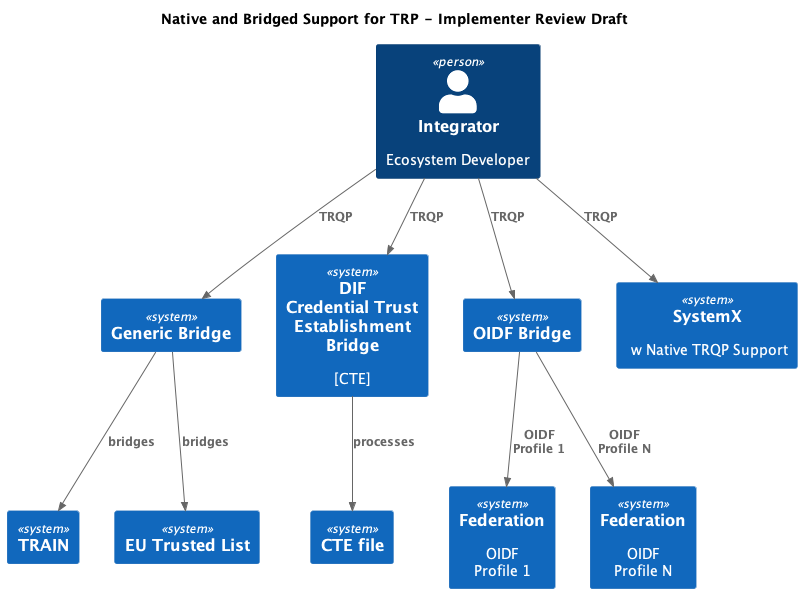
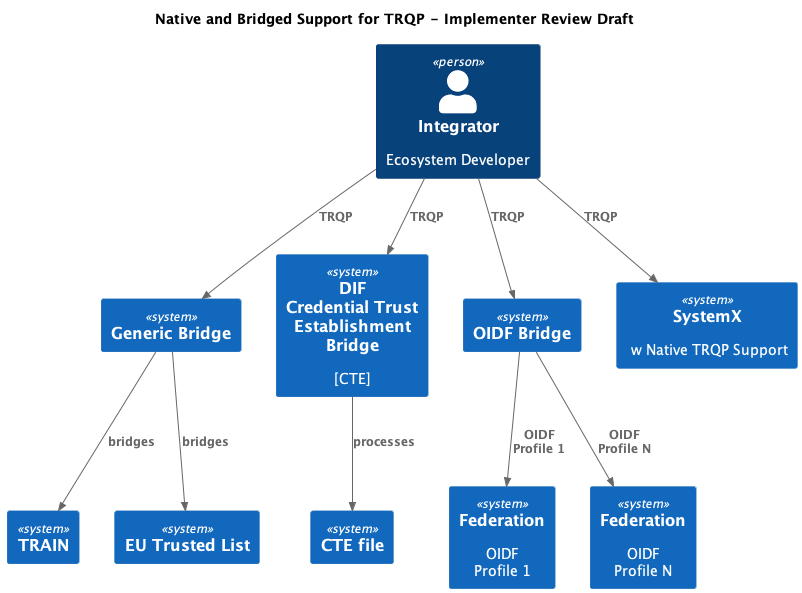
TRP->TRQP; fix .yaml links

Changed region(s): [[0.187, 0.0, 0.7793, 0.0607]]

diff --git a/spec/requirements.md b/spec/requirements.md
@@ -112,56 +112,56 @@ Trust Over IP hosts a [Service Profile]() with the following pointer:
 By implementing service profiles, it enables easier interoperability and
 discovery of service capabilities for the trust registry being implemented.
 
-### Trust Registry Protocol [TRP-*]
+### Trust Registry Protocol [TRQP-*]
 
 The authoritative technical specifications for the API calls in the ToIP Trust Registry Protocol V1 are specified in Appendix A (OpenAPI YAML file). This section contains a textual description of the **requirements**.
 
 **Trust registries** implementing this protocol:
 
-* [TRP-1] MUST maintain the service implementing this protocol at the HTTPS URI specified in the _[Trust Registry Service Property](#trust-registry-service-property)_ section.
-* [TRP-2] The system SHOULD support queries that are at a point in time in the past. 
-  * [TRP-2-1] The parameter for the point in time must be named `queryTime`.
-  * [TRP-2-2] The datetime value provided MUST be formatted per [[spec-norm:RFC3339]] using the UTC (i.e. Z for Zulu) zero offset (e.g. "2018-03-20T09:12:28Z". 
-  * [TRP-2-3] If the system does not support non-current data, and the the `queryTime` parameter is present, the system MUST NOT return entity data and must se http error code 405 (Method not allowed).
+* [TRQP-1] MUST maintain the service implementing this protocol at the HTTPS URI specified in the _[Trust Registry Service Property](#trust-registry-service-property)_ section.
+* [TRQP-2] The system SHOULD support queries that are at a point in time in the past. 
+  * [TRQP-2-1] The parameter for the point in time must be named `queryTime`.
+  * [TRQP-2-2] The datetime value provided MUST be formatted per [[spec-norm:RFC3339]] using the UTC (i.e. Z for Zulu) zero offset (e.g. "2018-03-20T09:12:28Z". 
+  * [TRQP-2-3] If the system does not support non-current data, and the the `queryTime` parameter is present, the system MUST NOT return entity data and must se http error code 405 (Method not allowed).
   
-* [TRP-3] MUST return responses to queries for the **status value** of a **registry entry** that satisfies one or more of the following sets of query parameters:
+* [TRQP-3] MUST return responses to queries for the **status value** of a **registry entry** that satisfies one or more of the following sets of query parameters:
 
-    - [TRP-3-1] **Entity Authorization**: Given the `entityDID`, and `authorization` return the status of that registered entity, MUST return exactly one of the following **status values** for a **registry entry** satisfying the query parameters:
+    - [TRQP-3-1] **Entity Authorization**: Given the `entityDID`, and `authorization` return the status of that registered entity, MUST return exactly one of the following **status values** for a **registry entry** satisfying the query parameters:
         - `Not Found` + http code 404 - entry not found.
         - `Current` + http code 200 - authorization for the registered entity is current as of the time of query, or as of the time requested.
         - `Expired` + http code 200 - authorization has expired (e.g. not renewed after the previous valid registration period)
         - `Terminated` + http code 200 - authorization was terminated (e.g. voluntary termination by the **registered entity**)
         - `Revoked` + http code 200 - authorization was revoked (e.g. involuntary termination by the **governing authority**) 
-    - [TRP-3-2] **Entity Authorizations**: Given only the `entityDID` the system SHOULD return the array of Authorization objects for the entity identified by `entityDID`. 
-    - ii. [TRP-3-2] **Recognized Registry:** Given the entityDID the system SHOULD return the list of [[def:trust registries]] that the entity has indicated it is registered in. 
-        - [TRP-3-2-1] The system MUST NOT return more than one trust registry in the array designated as a [[def: primary registry]].
+    - [TRQP-3-2] **Entity Authorizations**: Given only the `entityDID` the system SHOULD return the array of Authorization objects for the entity identified by `entityDID`. 
+    - ii. [TRQP-3-2] **Recognized Registry:** Given the entityDID the system SHOULD return the list of [[def:trust registries]] that the entity has indicated it is registered in. 
+        - [TRQP-3-2-1] The system MUST NOT return more than one trust registry in the array designated as a [[def: primary registry]].
 
 
 ::: TODO: 
   Align VID and/or DID terminology.
 :::
 
-[TRP-4] MUST return responses using the data model specified in the OpenAPI Specification . 
+[TRQP-4] MUST return responses using the data model specified in the OpenAPI Specification . 
 
-[TRP-5] For queries returning a **status value** other than `Not Found`, the response MUST return the following values:
-  - [TRP-5-1] The system must return the parameter values exactly as supplied in the query (so responses can be stateless).
-  - [TRP-5-2] The system must return the **status value** for the entity (per TRP-3-1).
-  - [TRP-5-3] The system must return exactly two **datetime values** conforming to the following requirements:
-        - [TRP-5-3-1]The value labels MUST be:
+[TRQP-5] For queries returning a **status value** other than `Not Found`, the response MUST return the following values:
+  - [TRQP-5-1] The system must return the parameter values exactly as supplied in the query (so responses can be stateless).
+  - [TRQP-5-2] The system must return the **status value** for the entity (per TRP-3-1).
+  - [TRQP-5-3] The system must return exactly two **datetime values** conforming to the following requirements:
+        - [TRQP-5-3-1]The value labels MUST be:
             - i. `AuthorizationStartDate`
             - ii. `AuthorizationEndDate`
-        - [TRP-5-3-2] The datetime values MUST be formatted to comply with [[spec-norm:RFC3339]] in the UTC/Z time zone with no offset.
-        - [TRP-5-3-3] The `AuthorizationStartDate` MUST be the date that the **registered entity** authorization began.
-        - [TRP-5-3-4] The `AuthorizationEndDate` MUST be either:
-            - [TRP-5-3-4-1] `Null` for an entry whose **status value** is `Current` at the time of the query.
-            - [TRP-5-3-4-2] A specific datetime value if the **registered entity** **status value** is `Expired`, `Terminated` or `Revoked.`
-        - [TRP-5-3-5] If a **registered entity** has multiple entries in the system (representing an authorization history), the value that is active at the time indicated must be returned:
-          - [TRP-5-3-5-1] when no `queryTime` value is provided the value that is active at time of the query MUST be returned.
-          - [TRP-5-3-5-2] when a `queryTime` parameter is provided the entry that is active at that time (i.e. indicted by `queryTime`) MUST be returned. 
+        - [TRQP-5-3-2] The datetime values MUST be formatted to comply with [[spec-norm:RFC3339]] in the UTC/Z time zone with no offset.
+        - [TRQP-5-3-3] The `AuthorizationStartDate` MUST be the date that the **registered entity** authorization began.
+        - [TRQP-5-3-4] The `AuthorizationEndDate` MUST be either:
+            - [TRQP-5-3-4-1] `Null` for an entry whose **status value** is `Current` at the time of the query.
+            - [TRQP-5-3-4-2] A specific datetime value if the **registered entity** **status value** is `Expired`, `Terminated` or `Revoked.`
+        - [TRQP-5-3-5] If a **registered entity** has multiple entries in the system (representing an authorization history), the value that is active at the time indicated must be returned:
+          - [TRQP-5-3-5-1] when no `queryTime` value is provided the value that is active at time of the query MUST be returned.
+          - [TRQP-5-3-5-2] when a `queryTime` parameter is provided the entry that is active at that time (i.e. indicted by `queryTime`) MUST be returned. 
 
 ### Anti-Requirements
 
-The following are considered anti-requirements in that they have been considered in the current design of the TRP:
+The following are considered anti-requirements in that they have been considered in the current design of the TRQP:
 
 * [AR-1] SHALL NOT support query operations for the history of a [[ref: registered entity]].   
         
@@ -169,6 +169,6 @@ The following are considered anti-requirements in that they have been considered
 
 * [AR-3]]SHALL NOT support automated rules processing in the protocol. A rules engine can certainly use the protocol.
 
-* [AR-4] Anything other than read-only operations. The TRP is a read-only (RETRIEVE in the CRUD sense) protocol.
+* [AR-4] Anything other than read-only operations. The TRQP is a read-only (RETRIEVE in the CRUD sense) protocol.
 
 

diff --git a/spec/introduction.md b/spec/introduction.md
@@ -16,25 +16,25 @@ We need answers to a simple question:
 
 > Does `Entity X` have `Authorization Y`, in the context of `Ecosystem Governance Framework Z`?
 
-The Trust Registry Protocol (TRP) serves to provide a simple interface to enable querying of systems of record that provide the information that drives a trust registry. There are a plethora of systems that contain answers that are required to make trust decisions. The protocol is intended to make the communication with any particular system-of-record consistent and simple.
+The Trust Registry Quert Protocol (TRQP) serves to provide a simple interface to enable querying of systems of record that provide the information that drives a trust registry. There are a plethora of systems that contain answers that are required to make trust decisions. The protocol is intended to make the communication with any particular system-of-record consistent and simple.
 
 It is intentionally simple to allow rapid integration into external systems.
 
-The TRP does not:  
+The TRQP does not:  
   * create a trust registry - it allows (read-only) access to a system-of-record that has the data needed to generate answers that a trust registry provides.
   * create new information - the Create, Update, and Delete of CRUD are not supported. Systems-of-record perform the full CRUD operations. The protocol provides a simple and consistent way of retrieving information from a system.
-  * create nor implement governance - the system-of-record that supports the TRP may have technical ways of doing this, supported by manual operations. Regardless, the TRP has no opinion on how governance is implemented - just that the information retrieved complies with the stated EGF.
-  * make decisions - the TRP serves up data that are inputs to trust decisions.
-  * assign Roles or Rights, though a consuming system may take information that is received via the TRP and assign these.
+  * create nor implement governance - the system-of-record that supports the TRQP may have technical ways of doing this, supported by manual operations. Regardless, the TRQP has no opinion on how governance is implemented - just that the information retrieved complies with the stated EGF.
+  * make decisions - the TRWP serves up data that are inputs to trust decisions.
+  * assign Roles or Rights, though a consuming system may take information that is received via the TRQP and assign these.
 
 It is most crucial to understand that a Trust Registry does NOT create authority. The authority of a trust registry is an outcome of governance.
 
 The purpose of this [[xref: TOIP, ToIP specification]] is to define a standard interoperable protocol for querying a global web of [[xref: TOIP, peer]] [[xref: TOIP, trust registries]], each of which can answer queries about whether a particular [[xref: TOIP, entity]] holds an [[ref:authorization]], in a particular [[xref: TOIP, digital trust ecosystem]] (defined under an [[xref: TOIP, EGF]]), as well as which peer trust registries acknowledge each other.
 
-### Trust Registry Protocol features
+### Trust Registry Query Protocol features
 A core role within the ToIP stack is a [[xref: TOIP, trust registry]]. This is a network service that enables the [[xref:TOIP, governing authority]] for an [[xref: TOIP, EGF]] to share information about their ecosystem. In particular, which [[xref: TOIP, governed parties]] hold which [[ref: authorizations]] under the EGF.
 
-A trust registry protocol thus should provide the following features:
+A trust registry query protocol thus should provide the following features:
 
 1. interface to query if a particular [[xref: TOIP, entity]] holds specific [[ref:authorization]] under a defined [[xref: TOIP, EGF]]? 
   - e.g.  "Does entity X hold the authorization of `canada.driver.license.issue` under Canadian Driver's license scheme?" 
@@ -43,11 +43,11 @@ A trust registry protocol thus should provide the following features:
 ### Read-only query Protocol
 The primary question (Does `Entity X` have `Authorization Y`, in the context of `Ecosystem Governance Framework Z`) we need an answer to when working in an ecosystem is in itself a simple query. Furthermore, it is read-only query and it doesn't modify any information in a system of record. It just makes data available.
 
-In the web service world the TRP is purely a GET protocol. 
+In the web service world the TRQP is purely a GET protocol. 
 
-Just as important it is to understand what the Trust Registry Protocol does NOT do. The TRP does NOT:
-* affect the operations and governance of the systems that support querying using the TRP.
-* create, update, or delete data in a system. In web services this means the TRP does to PUT, POST, DELETE, and other non-GET operations.
+Just as important it is to understand what the TRQP does NOT do. The TRQP does NOT:
+* affect the operations and governance of the systems that support querying using the TRQP.
+* create, update, or delete data in a system. In web services this means the TRQP does to PUT, POST, DELETE, and other non-GET operations.
 
 As with all layers of the [[xref: TOIP, ToIP stack]], the purpose of a [[xref: TOIP, ToIP specification]] is to enable the technical interoperability necessary to support transitive trust within and between different [[xref: TOIP, trust communities]] implementing the [[xref: TOIP, ToIP stack]]. In this case, the desired interoperability outcome is a common query protocol that works between any number of decentralized peer trust registries operated by independent governing authorities** representing multiple legal and business jurisdictions.
 

diff --git a/spec/annex.md b/spec/annex.md
@@ -33,24 +33,24 @@ The OpenAPI Specification (v3.1.0) is the first "concrete" API specification.
 
 It is provided as an Open API Specification v3 YAML file. 
 
-[OAS (.yaml) for TRP v2](../api/toip-tswg-trustregistryprotocol-v2.yaml). 
+[OAS (.yaml) for TRQP v2](https://github.com/trustoverip/tswg-trust-registry-protocol/blob/main/api/toip-tswg-trustregistryprotocol-v2.yaml). 
 
 There are several renderings of the OAS specification:
 
 * Inline - this rendering is managed in this repository [Redoc Rendering (static HTML) of specification](./api/redoc-static.html)
-* SwaggerHub - this rendering is manually updated from time to time and may be out of date: [SwaggerHub](https://app.swaggerhub.com/apis/CULedger/CULedger.Identity/0.3.1-oas3.1) 
+* SwaggerHub - this rendering is manually updated from time to time and may be out of date: [SwaggerHub](https://app.swaggerhub.com/apis-docs/continuumloop/trust-over_ip_trust_registry_protocol_res_tful_api_v_2/2.0.0) 
 
 
 ## Annex C - Uses and Data Model Reference
 
 ### Use of the Trust Registry Protocol.
 
-The TRP is intended to be used in at least two key ways:
+The TRQP is intended to be used in at least two key ways:
 
-* Native Support - systems may directly implement access using the TRP.
-* Bridged - systems may create access "bridges" that provide TRP access to their systems.
+* Native Support - systems may directly implement access using the TRQP.
+* Bridged - systems may create access "bridges" that provide TRQP access to their systems.
 
-![C4 Systems Model - showing native TRP support on one system, bridged support to two other systems (e.g. TRAIN and EU Trusted List ARF)](./images/puml/protocol-bridging.png).
+![C4 Systems Model - showing native TRQP support on one system, bridged support to two other systems (e.g. TRAIN and EU Trusted List ARF)](./images/puml/protocol-bridging.png).
 
 
 ### Object Model
@@ -63,5 +63,5 @@ We provide a high-level object model (NOTE: source of truth is the Swagger as th
 
 We will need to provide guides and other thought pieces that explain many aspects of trust registries. A notional (short bullet) list of items could include:
 * "why do I need a trust registry?" - blog article or position paper to explain why trust registries help.
-* "I have the data, but how do I use the TRP?" - paper about how adding TRP to a bridge or native integration.
+* "I have the data, but how do I use the TRQP?" - paper about how adding TRQP to a bridge or native integration.
 * "where do I learn about the governance changes that I have?"

diff --git a/spec/foreword.md b/spec/foreword.md
@@ -15,9 +15,9 @@ The term [[ref:trust]] is loaded with varied meanings that may conflict. In the 
 A trust registry may provide information that helps the [[ref:consuming party]] in deciding that an entity is [[ref:trustworthy]]. 
 The ToIP Trust Registry Protocol helps ecosystems create the foundation of trust within its governed domain, by providing a common protocol for querying information that helps the consuming party in deciding that an entity is [[ref: trustworthy]].
 
-In addition to providing information on its own ecosystem, the Trust Registry Protocol (TRP) enables creation of a registry of registries. This is done by allowing an ecosystem to assert trust to other trust registries, and thus ecosystems. This can be achieved by allowing a governance entity to assert that consuming parties that rely on the trust registry, may also utilize information from another trust registry for additional assertions. This effectively creates transitive trust across ecosystems to achieve wider reach.
+In addition to providing information on its own ecosystem, the Trust Registry Query Protocol (TRQP) enables creation of a registry of registries. This is done by allowing an ecosystem to assert trust to other trust registries, and thus ecosystems. This can be achieved by allowing a governance entity to assert that consuming parties that rely on the trust registry, may also utilize information from another trust registry for additional assertions. This effectively creates transitive trust across ecosystems to achieve wider reach.
 
-The Trust Registry Protocol serves to provide a simple interface to enable querying of systems of record that provide the information that drives a trust registry. There are a plethora of systems that contain answers that are required to make trust decisions. The protocol is intended to make the communication with any particular system-of-record consistent and simple.
+The Trust Registry Query Protocol serves to provide a simple interface to enable querying of systems of record that provide the information that drives a trust registry. There are a plethora of systems that contain answers that are required to make trust decisions. The protocol is intended to make the communication with any particular system-of-record consistent and simple.
 
 ## Foreword
 This specification is subject to the **OWF Contributor License Agreement 1.0 - Copyright** available at

diff --git a/spec/terms_and_definitions.md b/spec/terms_and_definitions.md
@@ -43,7 +43,7 @@ https://github.com/trustoverip/tswg-trust-registry-protocol/issues/6
 ~ A network address, such as an HTTP URL, at which services operate on behalf of a DID subject. (Source: [[spec-norm:DID-CORE]])
 
 [[def: service property]]:
-~ in context of: [TRP-1] ...MUST publish, in the [[xref: TOIP, DID document]] associated with the **DID** identifying its **EGF**, a [[ref: service property]] specifying the [[ref: service endpoint]]
+~ in context of: [TRQP-1] ...MUST publish, in the [[xref: TOIP, DID document]] associated with the **DID** identifying its **EGF**, a [[ref: service property]] specifying the [[ref: service endpoint]]
 
 [[def: trust registry, trust registries]]: 
 ~ A registry that serves as an authoritative source for trust graphs or other governed information describing one or more trust communities. A trust registry is typically authorized by a governance framework.  (See also: [[xref: TOIP, trust list]])

diff --git a/spec/revision_history.md b/spec/revision_history.md
@@ -4,3 +4,7 @@
 [[This section applies after the specification has been released for a Public Review, including Implementers Public Review]].
 :::
 
+* 2024-06-24
+  - changed specification name to add "Query" to the title
+  - updated beidge diagram to reflect profile need for OIDF
+  - fixed Swagger links

diff --git a/spec/title.md b/spec/title.md
@@ -1,4 +1,4 @@
-ToIP Trust Registry Protocol version 2.0 Specification
+ToIP Trust Registry QueryProtocol version 2.0 Specification
 ==================
 
 **Specification Status**: v2.0 Implementers Draft
